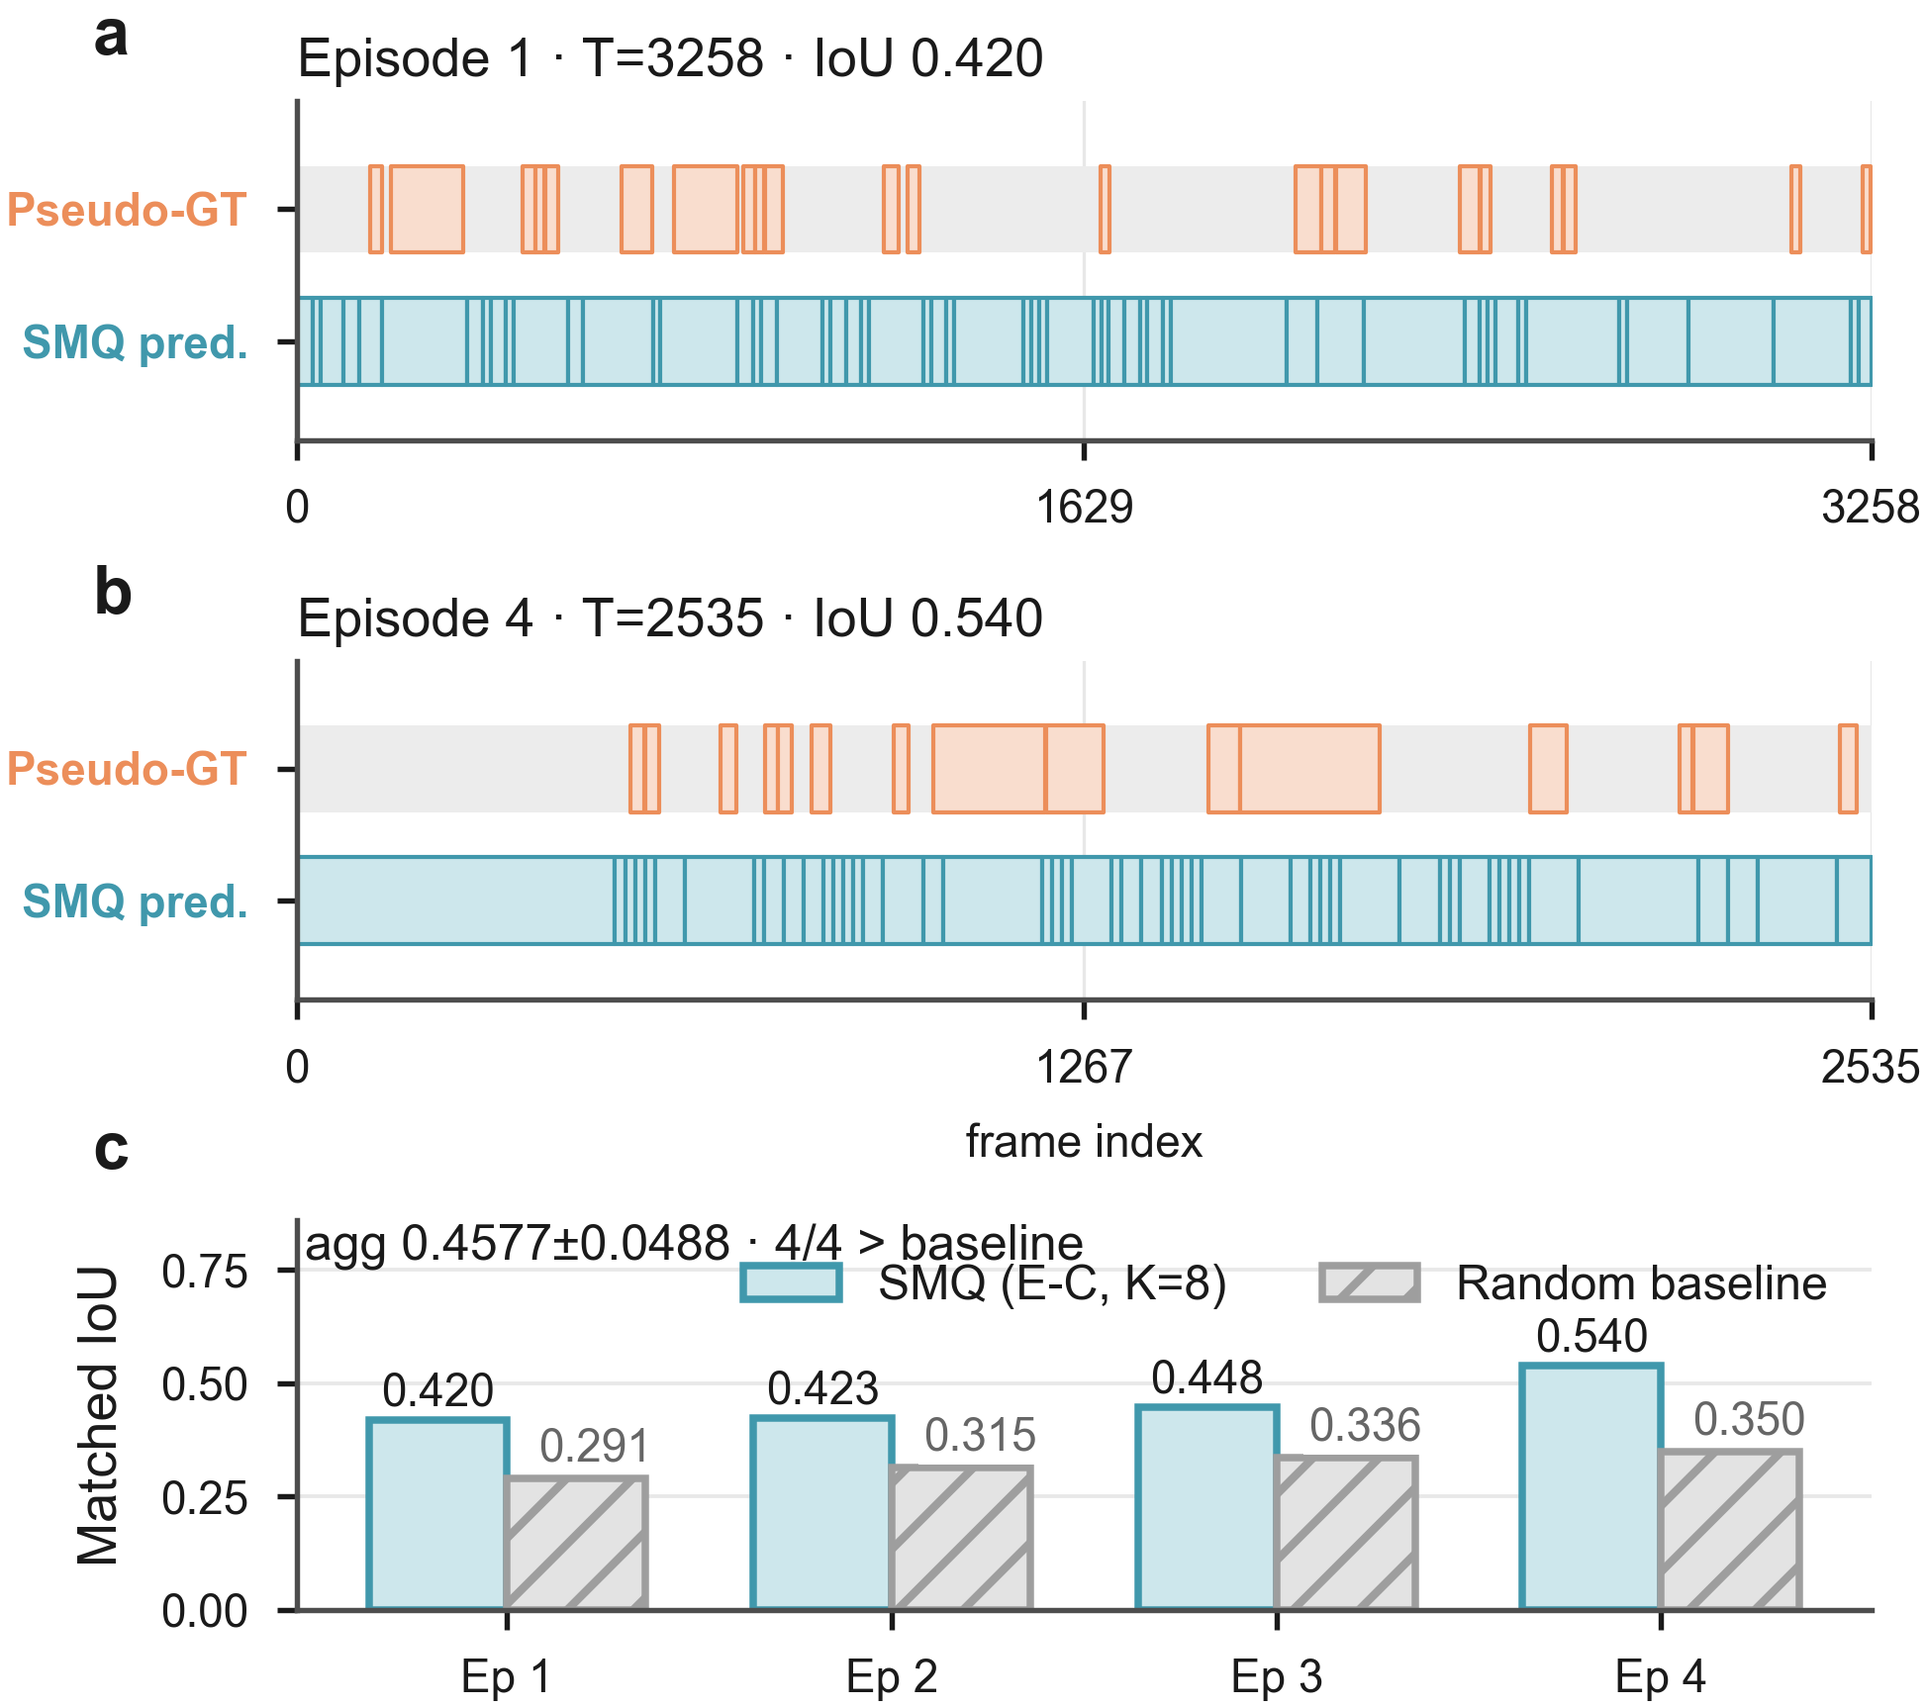
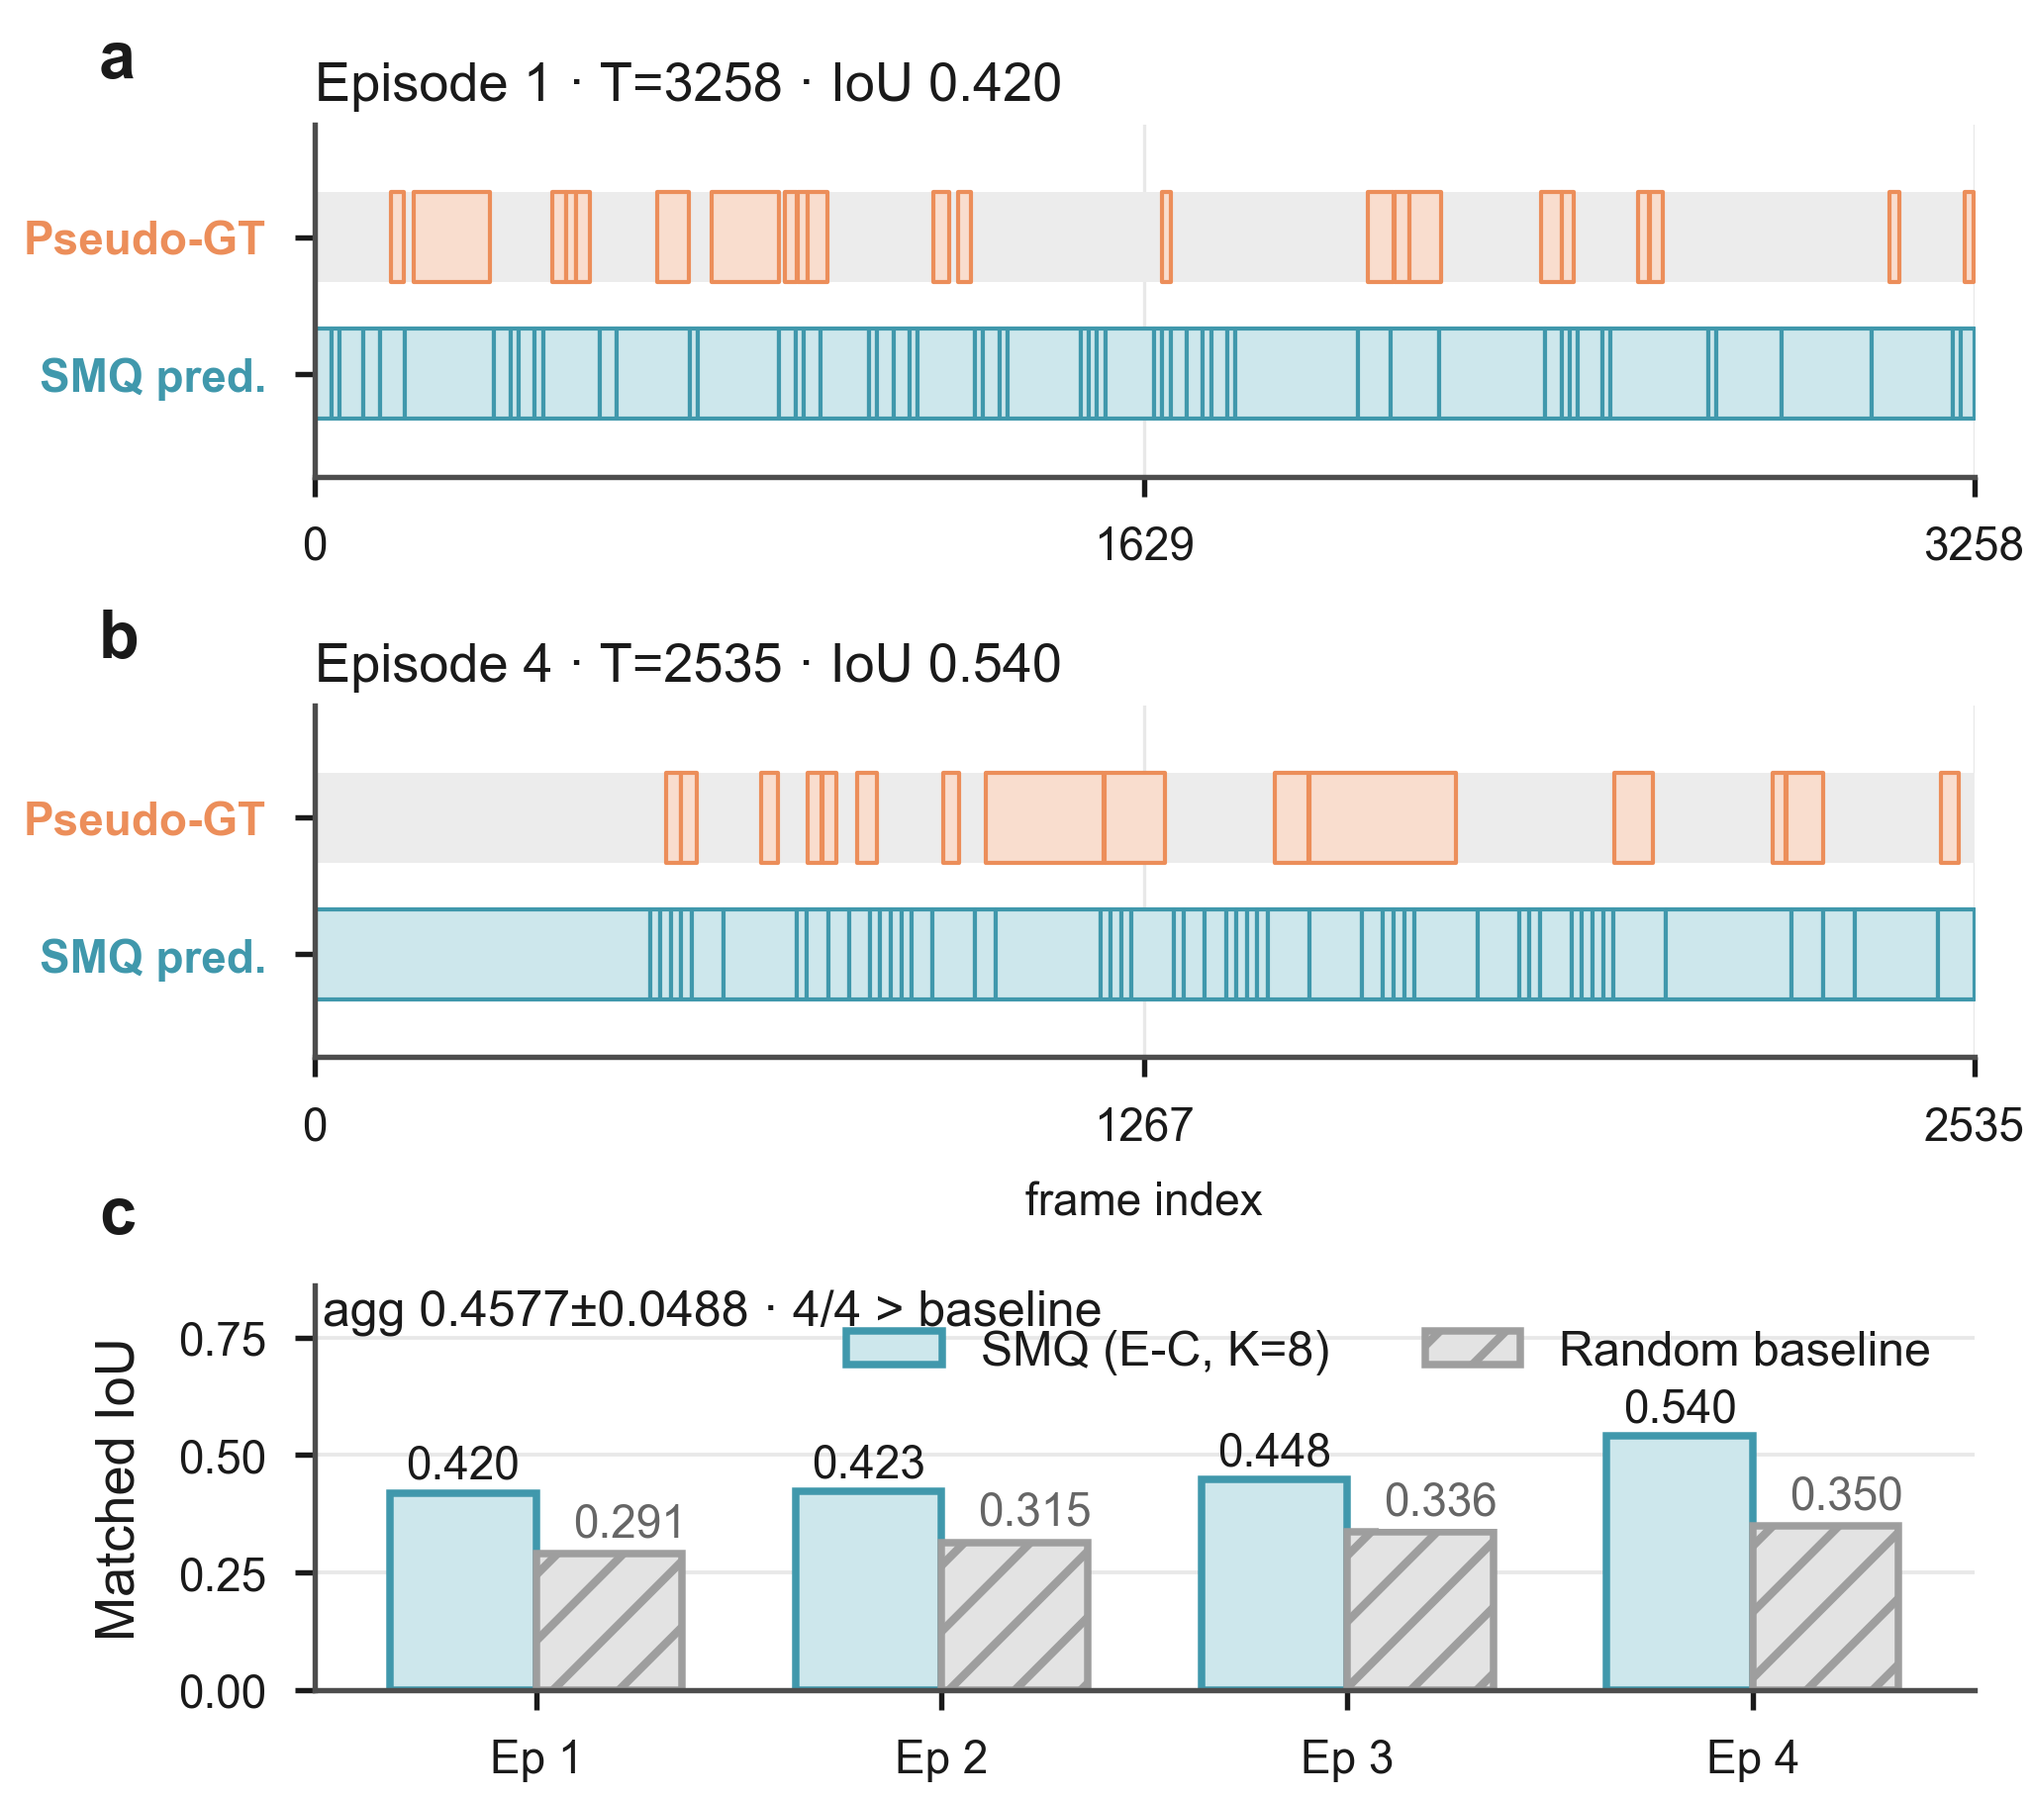
feat(fig3): 正典 v9 尺度修复——固定画布 + 显式版面
数据/构图/文字/字号/色板全部承 v8（数据源绑定 p02-smq-iou-eC-seeds-recheck.json，
aggregate 0.4577±0.0488 与 caption 逐位一致；段内标签门控口径不动、
标签集合与 v8 完全一致）。

尺度修复：v8 tight 墨迹框 233.65x207.21pt 被 LaTeX 放大 1.054 倍；
本版固定画布 3.42x3.03in，MediaBox 严格 246.24x218.16pt = 版心宽，
装入系数 1.054 -> 1.000，版面占用与 v8(218.39pt) 逐点持平。
gridspec 显式边距（left=0.155/right=0.972/top=0.93/bottom=0.06）使
轴外 a/b/c 面板字母与右缘 T 刻度全落画布内（G5 实证修复两轮）。
门禁：G1 + G5 + G6 + G4 全 PASS。

diff --git a/docs/paper/figures/scripts/make_fig3_segmentation_qualitative_v9.py b/docs/paper/figures/scripts/make_fig3_segmentation_qualitative_v9.py
@@ -1,0 +1,174 @@
+# -*- coding: utf-8 -*-
+"""fig3 v9 — SMQ 分割边界定性图（正典 · 风格方向 C + 尺度修复）。
+
+承 v8 全部构图（双 episode 时间轴 + 四 episode IoU 聚合面板、面板字母 a/b/c、
+灰底轨、直标值、网格/笔触），**图内全部文字与数据口径逐字承 v8，零新增零删除**。
+
+数据源 = reports/p02-smq-iou-eC-seeds-recheck.json（E-C 端到端 K=8, epoch-30；
+aggregate 0.4577±0.0488 与 caption 逐位一致），维持绑定。
+
+本版唯一改动族：
+1. 尺度修复（wt/figB 诊断头号根因）：v8 用 `bbox_inches="tight"` 保存，
+   MediaBox=墨迹框 233.65x207.21pt，被 LaTeX 按 \\linewidth 装入时放大
+   246.24/233.65 = **1.054 倍**（fig3 是六图中第二严重的拉伸）。本版固定画布
+   3.42x3.03in，MediaBox 严格 246.24x218.16pt=版心宽，装入系数 1.000，
+   版面占用 218.16pt 与 v8 的 218.39pt 逐点持平（不引发浮动回退）。
+2. 去 tight 后的显式版面：gridspec 显式边距（left=0.155/right=0.985/top=0.93/
+   bottom=0.06），使 y 轴彩字标签、轴外 a/b/c 面板字母、底排 x 刻度全部落在
+   画布内（G5 画布裁切断言实证）。新轴宽 2.84in > v8 的 2.65in，段内标签
+   适配更宽松（标签集合与 v8 完全一致：draw_track 的 ax_w_in 估算口径未动）。
+3. 字号/色板/线宽/网格/面板字母尺寸全部承 v8（最小 5.5pt，本就合规）。
+
+caption 约束逐词核对（04-experiments.tex \\label{fig:segqual}）：
+upper band=seed pseudo-GT(orange) / lower band=SMQ pred(teal)、lower panel=
+四 episode IoU 聚合 vs random-cut null、agg 0.4577±0.0488、4/4 > baseline——全部保持。
+"""
+from pathlib import Path
+import json
+
+import matplotlib
+matplotlib.use("Agg")
+import matplotlib.pyplot as plt
+
+ROOT = Path(__file__).resolve().parents[4]
+DATA = ROOT / "reports" / "p02-smq-iou-eC-seeds-recheck.json"
+OUT_DIR = ROOT / "docs" / "paper" / "figures"
+PREVIEW = ROOT / "reports" / "figB-proposal"
+PREVIEW.mkdir(parents=True, exist_ok=True)
+assert DATA.is_file(), f"data missing: {DATA}"
+
+import sys, os
+sys.path.insert(0, os.path.dirname(os.path.abspath(__file__)))
+import psd_style
+psd_style.apply_style()
+INK = psd_style.INK
+CYAN_FILL, CYAN_DARK = psd_style.PHYS_FILL, psd_style.PHYS_EDGE
+ORANGE_FILL, ORANGE_DARK = psd_style.SEM_FILL, psd_style.SEM_EDGE
+BAND_GRAY, BASE_EDGE = psd_style.GRAY_FILL, psd_style.GRAY_EDGE   # null 参照=中性灰
+RAIL_GRAY = "#ECECEC"                                              # 全程底轨（比灰柱浅半档）
+NOTE_GRAY, GRID_GRAY = "#666666", psd_style.GRID_GRAY
+
+
+with open(DATA, encoding="utf-8") as f:
+    payload = json.load(f)
+episodes = {ep["id"]: ep for ep in payload["episodes"]}
+EP_MAIN = [1, 4]
+BAR_H = 0.66
+Y_GT, Y_PRED = 1.0, 0.0
+
+# 标签宽度估算口径承 v8（ax_w_in=3.05 不变 → 段内标签集合与 v8 完全一致）
+def draw_track(ax, segments, y_center, facecolor, edgecolor, labels=None, t_total=1.0):
+    ax_w_in = 3.05
+    frames_per_in = t_total / ax_w_in
+    ax.broken_barh([(0, t_total)], (y_center - BAR_H / 2, BAR_H),
+                   facecolors=RAIL_GRAY, edgecolors="none", linewidth=0, zorder=1)
+    for i, (s, e) in enumerate(segments):
+        ax.broken_barh([(s, e - s)], (y_center - BAR_H / 2, BAR_H),
+                       facecolors=facecolor, edgecolors=edgecolor, linewidth=0.5,
+                       zorder=2)
+        if labels and i < len(labels) and labels[i]:
+            need = len(labels[i]) * 0.042 * frames_per_in + 30
+            if (e - s) >= max(40, need):
+                ax.text((s + e) / 2, y_center, labels[i], ha="center", va="center",
+                        fontsize=5.5, color=INK, clip_on=True, zorder=3)
+
+
+def style_timeline(ax, ep, tag, show_xlabel):
+    t = ep["T"]
+    ax.set_xlim(0, t)
+    ax.set_ylim(-0.75, 1.82)
+    ax.set_yticks([Y_PRED, Y_GT])
+    ax.set_yticklabels(["SMQ pred.", "Pseudo-GT"], fontsize=6)
+    ax.set_xticks([0, t // 2, t])
+    ax.tick_params(labelsize=5.5, width=0.65, length=2.4)
+    if show_xlabel:
+        ax.set_xlabel("frame index", fontsize=5.5)
+    for lab, colr in zip(ax.get_yticklabels(), (CYAN_DARK, ORANGE_DARK)):
+        lab.set_color(colr); lab.set_fontweight("bold")
+    ax.set_title(f"Episode {tag} \u00b7 T={t} \u00b7 IoU {ep['mean_matched_iou']:.3f}",
+                 loc="left", fontsize=6.5, pad=3)
+    ax.grid(True, axis="x", color=GRID_GRAY, linewidth=0.4)
+    ax.set_axisbelow(True)
+    for side in ("top", "right"):
+        ax.spines[side].set_visible(False)
+    for side in ("left", "bottom"):
+        ax.spines[side].set_linewidth(0.65)
+
+
+# ---- 固定画布：宽 3.42in == 版心 246.24pt；高 3.03in ⇒ 版面占用与 v8 持平 ----
+FIG_W, FIG_H = 3.42, 3.03
+fig = plt.figure(figsize=(FIG_W, FIG_H))
+fig.patch.set_facecolor("white")
+gs = fig.add_gridspec(3, 1, height_ratios=[1, 1, 1.15], hspace=0.62,
+                      left=0.155, right=0.972, top=0.93, bottom=0.06)
+
+PANEL_LETTERS = ["a", "b", "c"]
+for row, eid in enumerate(EP_MAIN):
+    ep = episodes[eid]
+    ax = fig.add_subplot(gs[row, 0])
+    draw_track(ax, ep["gt_segments"], Y_GT, ORANGE_FILL, ORANGE_DARK,
+               labels=ep.get("gt_labels"), t_total=ep["T"])
+    draw_track(ax, ep["pred_segments"], Y_PRED, CYAN_FILL, CYAN_DARK, t_total=ep["T"])
+    style_timeline(ax, ep, eid, show_xlabel=(row == 1))
+    ax.text(-0.13, 1.10, PANEL_LETTERS[row], transform=ax.transAxes,
+            fontsize=8, fontweight="bold", ha="left", va="bottom", color=INK)
+
+axi = fig.add_subplot(gs[2, 0])
+ids = sorted(episodes)
+iou_pred = [episodes[i]["mean_matched_iou"] for i in ids]
+iou_base = [episodes[i]["random_baseline_iou"] for i in ids]
+xs = range(len(ids))
+bw = 0.36
+bars_p = axi.bar([x - bw / 2 for x in xs], iou_pred, width=bw,
+                 facecolor=CYAN_FILL, edgecolor=CYAN_DARK, linewidth=0.9,
+                 label="SMQ (E-C, K=8)")
+bars_b = axi.bar([x + bw / 2 for x in xs], iou_base, width=bw,
+                 facecolor=BAND_GRAY, edgecolor=BASE_EDGE, linewidth=0.9, hatch="///",
+                 label="Random baseline")
+for rect, v in zip(bars_p, iou_pred):
+    axi.text(rect.get_x() + rect.get_width() / 2, v + 0.012, f"{v:.3f}",
+             ha="center", va="bottom", fontsize=5.5, color=INK)
+for rect, v in zip(bars_b, iou_base):
+    axi.text(rect.get_x() + rect.get_width() / 2 + 0.05, v + 0.018, f"{v:.3f}",
+             ha="center", va="bottom", fontsize=5.5, color=NOTE_GRAY,
+             bbox=dict(facecolor="white", edgecolor="none", pad=0.6))
+agg = payload["aggregate"]
+n_win = sum(p > b for p, b in zip(iou_pred, iou_base))
+axi.text(0.005, 0.99,
+         f"agg {agg['mean_matched_iou']:.4f}\u00b1{agg['std']:.4f} \u00b7 {n_win}/4 > baseline",
+         transform=axi.transAxes, ha="left", va="top", fontsize=6, color=INK)
+axi.set_xticks(list(xs))
+axi.set_xticklabels([f"Ep {i}" for i in ids], fontsize=6)
+axi.set_ylabel("Matched IoU", fontsize=6.5)
+axi.tick_params(labelsize=5.5, width=0.65, length=2.4)
+axi.set_ylim(0, 0.86)
+axi.grid(True, axis="y", color=GRID_GRAY, linewidth=0.45)
+axi.set_axisbelow(True)
+for side in ("top", "right"):
+    axi.spines[side].set_visible(False)
+for side in ("left", "bottom"):
+    axi.spines[side].set_linewidth(0.65)
+axi.legend(loc="upper right", ncol=2, frameon=False, fontsize=5.8)
+axi.text(-0.13, 1.10, PANEL_LETTERS[2], transform=axi.transAxes,
+         fontsize=8, fontweight="bold", ha="left", va="bottom", color=INK)
+
+# ---- 出图（尺度修复：无 tight，MediaBox 严格等于画布） ----
+pdf_path = OUT_DIR / "fig3_segmentation_qualitative.pdf"
+png_path = OUT_DIR / "fig3_segmentation_qualitative.png"
+fig.savefig(pdf_path)
+fig.savefig(png_path, dpi=600)
+fig.savefig(PREVIEW / "preview_fig3.png", dpi=150)
+print("fig3 v9 (fixed-canvas scale fix) saved")
+for i in ids:
+    ep = episodes[i]
+    print(f"ep{i}: T={ep['T']} IoU={ep['mean_matched_iou']} baseline={ep['random_baseline_iou']}")
+print(f"aggregate: {agg['mean_matched_iou']} \u00b1 {agg['std']} | {n_win}/4")
+
+# ---- 门禁（G1 + G5 + G6 + G4；时间轴无误差棒故无 G3） ----
+import make_common_gates as gates
+gates.gate_print_robustness(
+    "fig3-v9", {"pseudo-GT band": ORANGE_DARK, "SMQ pred band": CYAN_DARK},
+    redundancy="upper/lower band position + colored axis labels + bar hatch")
+gates.gate_typography(fig, min_pt=5.5, name="fig3-v9")
+gates.gate_marks_in_axes(fig, name="fig3-v9")
+gates.gate_pdf(pdf_path, max_w_pt=246.3)
